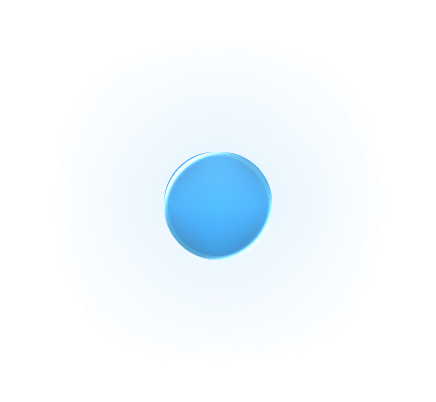
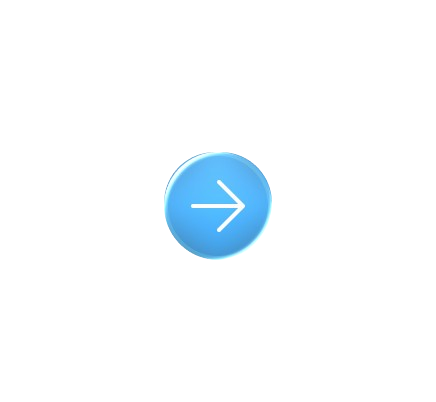
Fix minor styling issues

diff --git a/index.html b/index.html
@@ -231,12 +231,12 @@
 
   <header>
 
-    <div class="cta1-header"><a href="">
-      Escala y optimiza tu negocio
-      <div style="width: 0px;">
-        <!-- <img style="width: 100%;" src="./resources/images/arrow.png" alt=""> -->
-      </div>
-    </a></div>
+    <div class="cta1-header">
+      <a href="" style="display: inline-flex; align-items: center; gap: 10px; color: white;">
+        Escala y optimiza tu negocio
+        <img class="arrow-icon" style="width: 20px; height: 20px;" src="./resources/images/arrow.png" alt="">
+      </a>
+    </div>
 
     <div class="mobile-title-div">
       <h1>Programa para <br> Entrenadores y Emprendedores</h1>      

diff --git a/resources/styles/header.css b/resources/styles/header.css
@@ -87,8 +87,21 @@
       border: solid 1px #5d5d5d;
       border-radius: 5px;
     }
+
     .cta1-header a{
       color: white;
+      display: flex;
+    }
+
+    .arrow-icon{
+      width: 20px;
+      height: 20px;
+      object-fit: contain;
+      margin-left: 10px;
+      object-fit: contain;
+
+      transform: scale(1.4) !important;  /* visually bigger */
+      transform-origin: center;
     }
 
     header h1{
